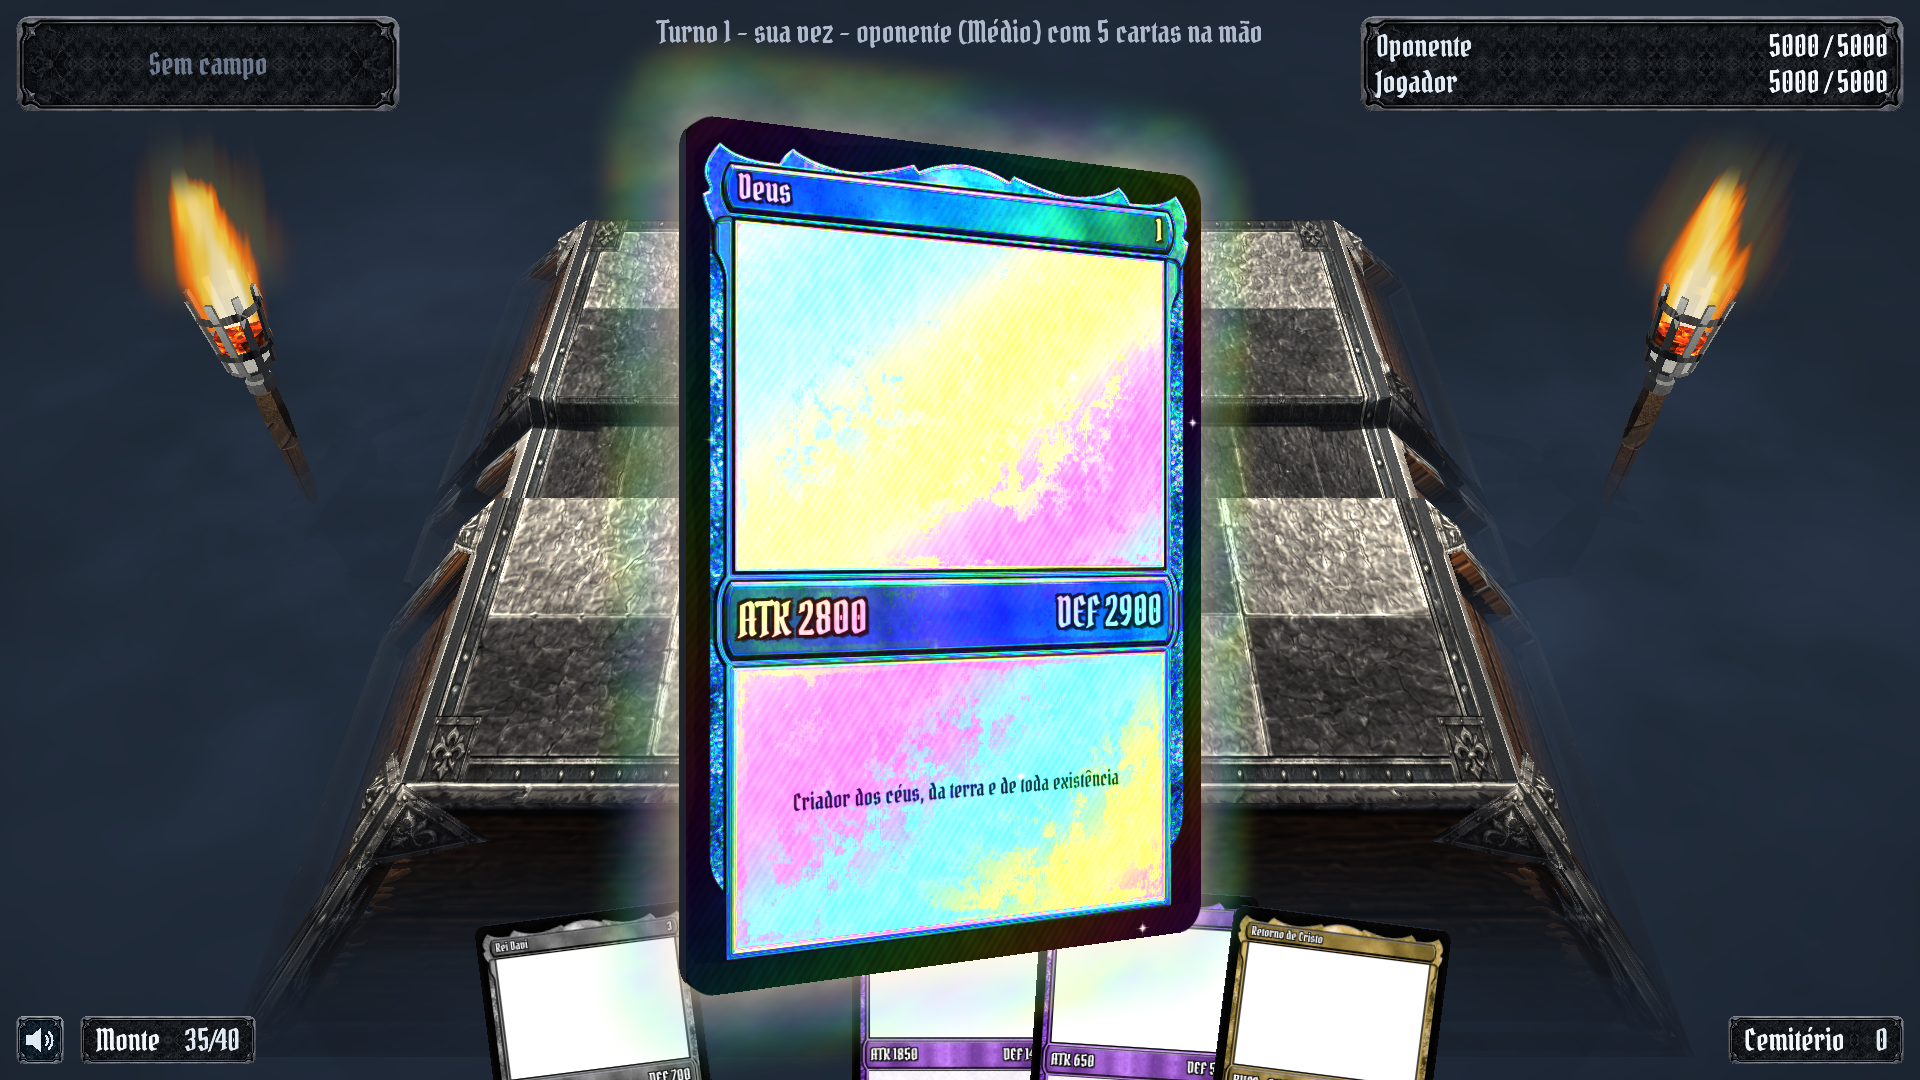
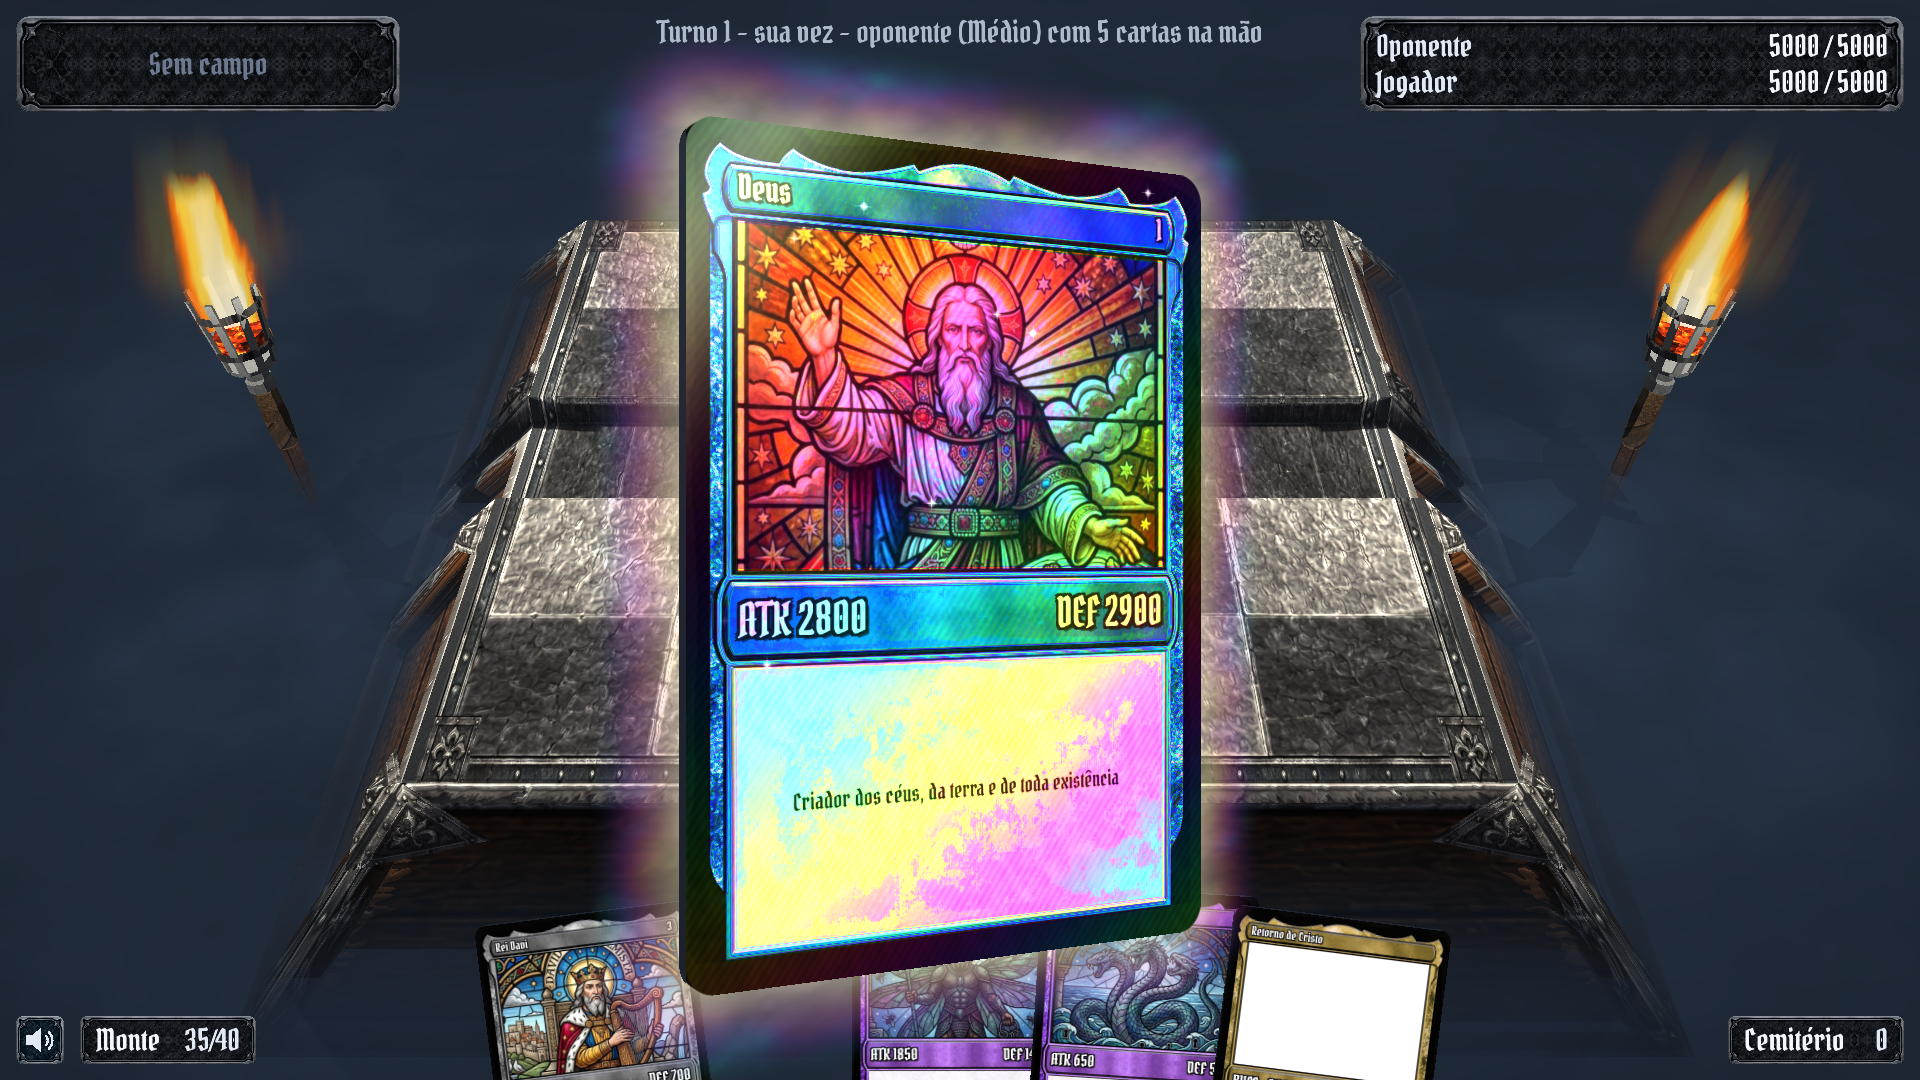
add: good cards art

Changed region(s): [[0.25, 0.0306, 0.6562, 1.0], [0.875, 0.1528, 0.9375, 0.3056], [0.0625, 0.1528, 0.1562, 0.275]]

diff --git a/docs/detalhes_tecnicos.md b/docs/detalhes_tecnicos.md
@@ -316,7 +316,7 @@ Cartas de **hierarquia 1** são **foil**: a frente é desenhada em `Gpu::DrawMod
 - **Estrelas**: brilhos em cruz que piscam em pontos sorteados, mais fortes inclinando.
 - **Aura** (`scripts/aura/CardAura.*`, `Gpu::DrawMode::kAura`): grade 4x4 no espaço local da carta, no plano do meio da espessura, desenhada logo antes da carta; UV = distância além da borda. Energia que flui (ruído animado) e pulsa, branco-dourada junto à borda e em arco-íris para fora, com a borda externa irregular. Mais fraca em carta que já atacou e some junto no descarte.
 
-Na revelação da carta do oponente a carta é desenhada em 3D na camada da mão (`Hand::CenterMatrix`/`DrawLoose`), com a mesma pele, foil e aura das suas cartas, balançando para o arco-íris correr. Nome, hierarquia e ATK/DEF são brancos com contorno escuro (8 direções, ~5% do tamanho) e sombra, legíveis sobre as faixas coloridas; a descrição é preta lisa, sem contorno nem sombra, sobre a área branca. Cartas neutras (`sprites/neutral/`) e malignas (`sprites/evil/`) já têm ilustração; bondosas e de campo ficam com a janela em branco até terem os arquivos.
+Na revelação da carta do oponente a carta é desenhada em 3D na camada da mão (`Hand::CenterMatrix`/`DrawLoose`), com a mesma pele, foil e aura das suas cartas, balançando para o arco-íris correr. Nome, hierarquia e ATK/DEF são brancos com contorno escuro (8 direções, ~5% do tamanho) e sombra, legíveis sobre as faixas coloridas; a descrição é preta lisa, sem contorno nem sombra, sobre a área branca. Cartas neutras (`sprites/neutral/`), malignas (`sprites/evil/`) e bondosas (`sprites/good/`) já têm ilustração; as de campo ficam com a janela em branco até terem os arquivos.
 
 ## Ajustes em JSON
 
